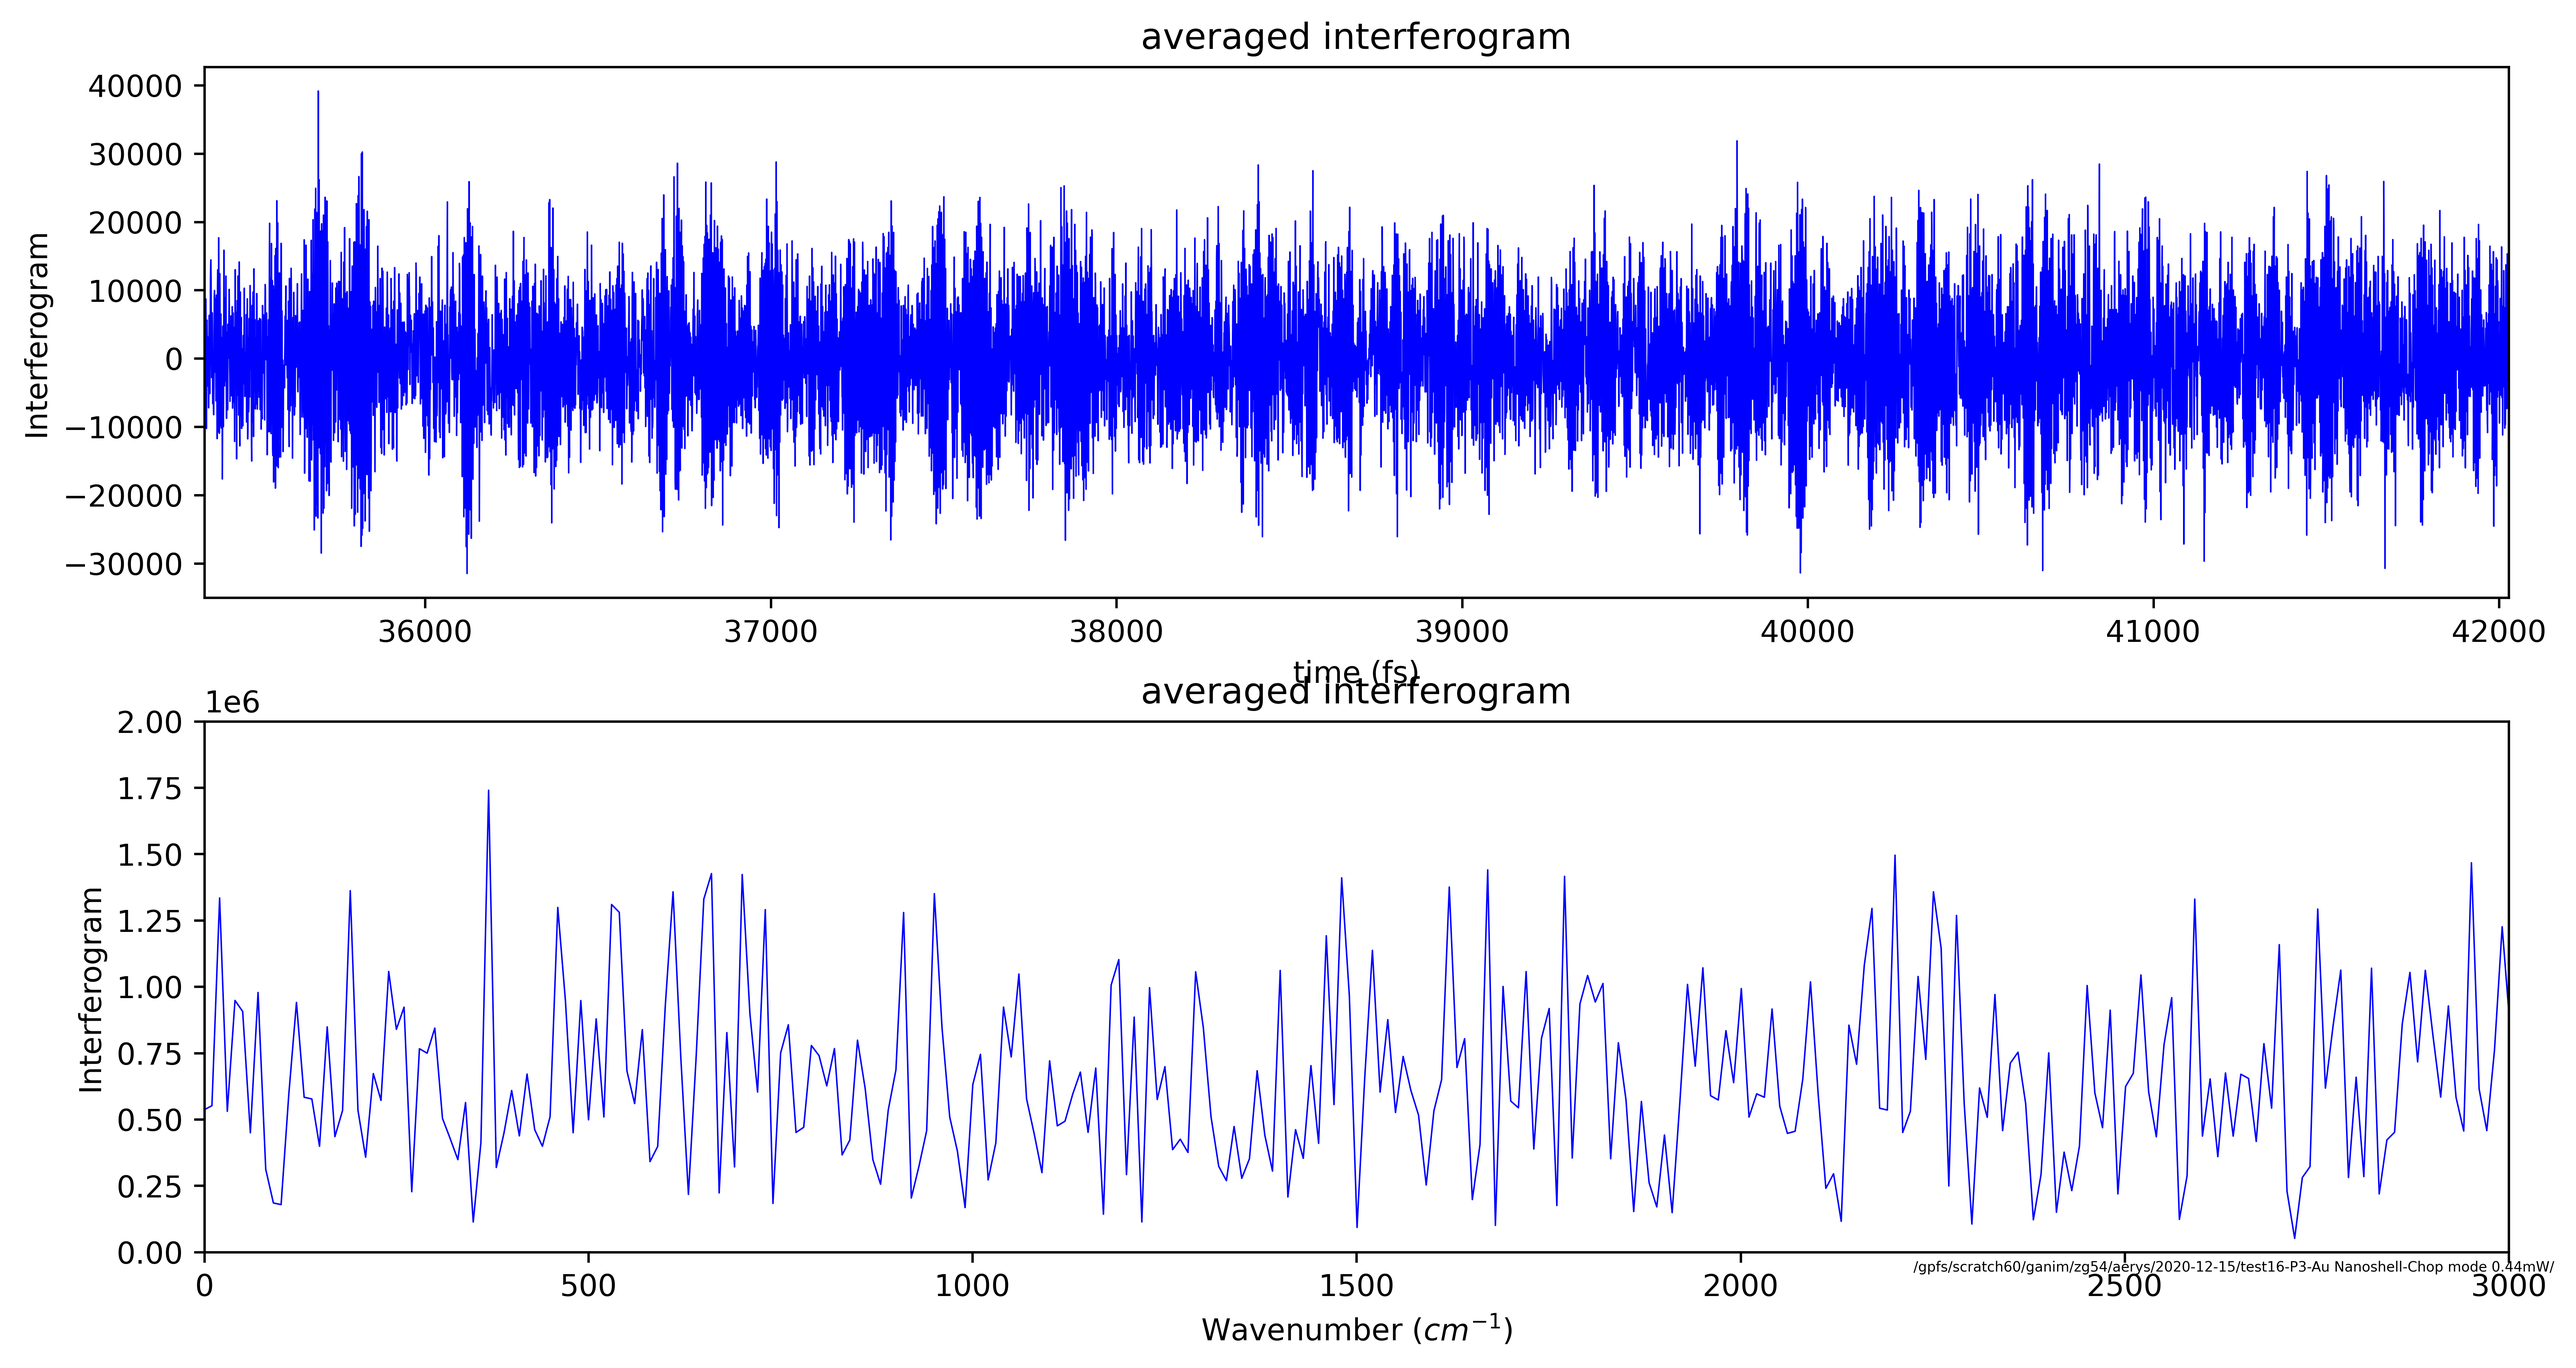
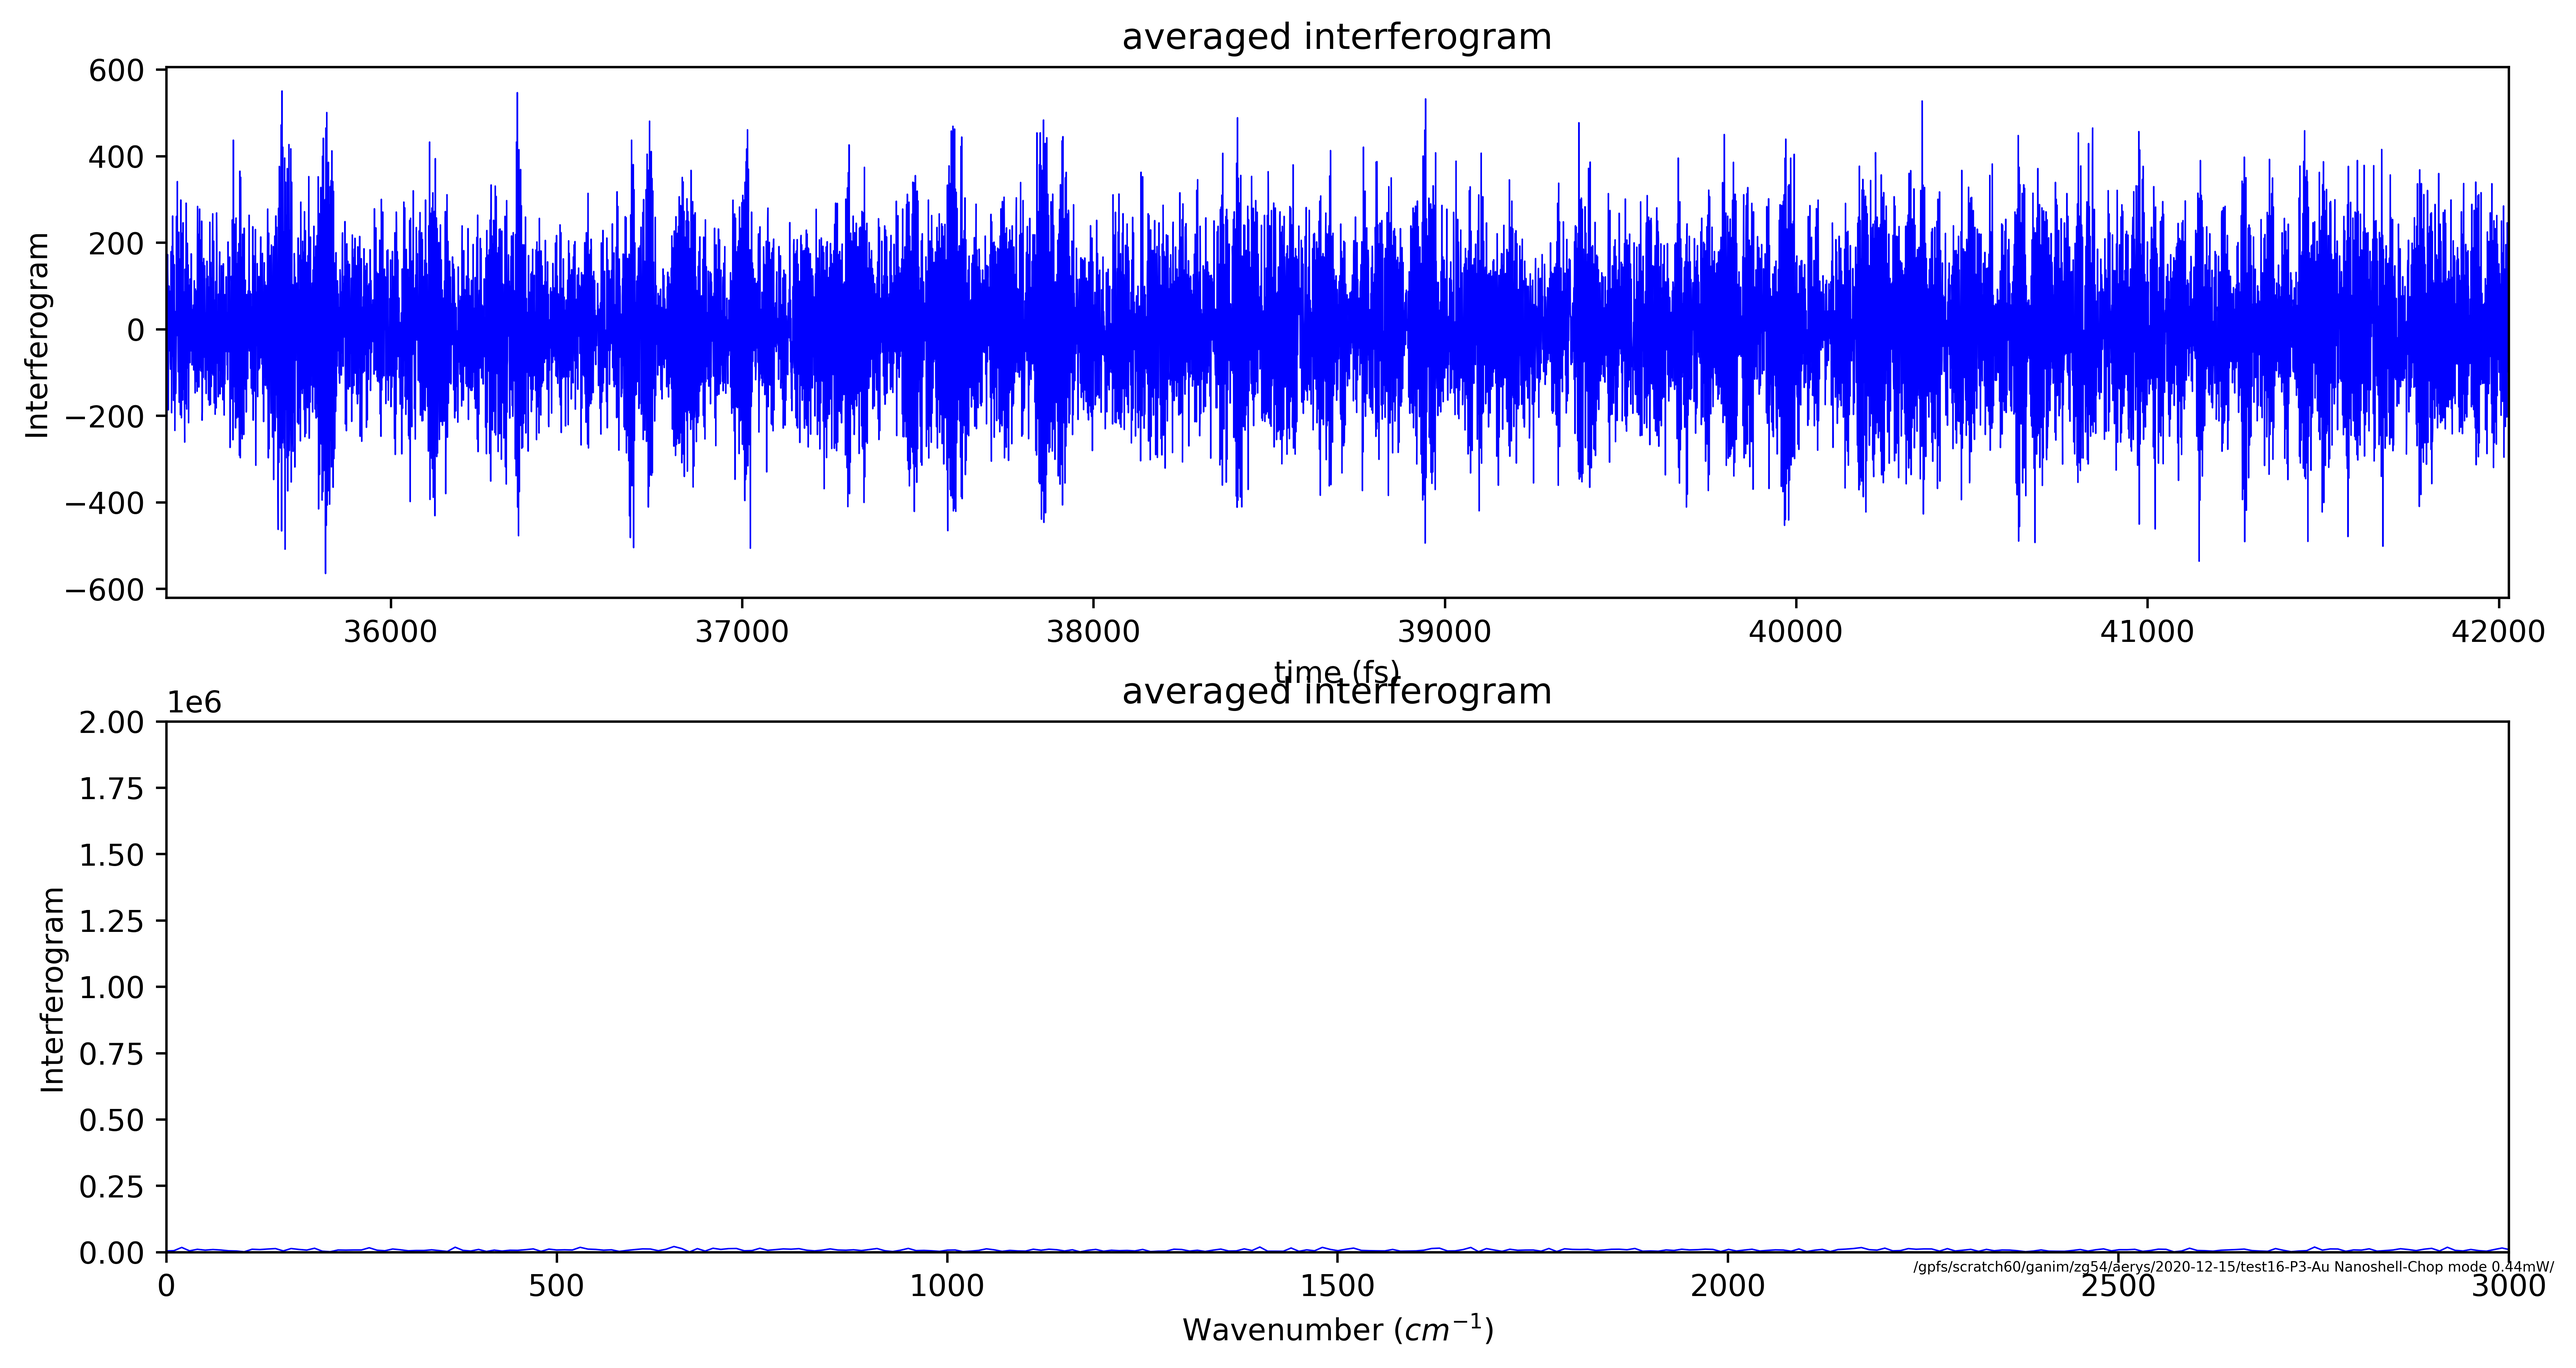
data run

diff --git a/interf_plot.py b/interf_plot.py
@@ -50,26 +50,29 @@ def main(args):
     max_t = np.zeros((N_scans),dtype=float)
     mean_dt = np.zeros((N_scans),dtype=float)
 
-    for n in np.arange(data_dict['N_scans']):
+    for n in np.arange(N_scans):
         t_temp = data_dict['t_'+str(n+1)]
         min_t[n] = np.amin(t_temp)
         max_t[n] = np.amax(t_temp)
         mean_dt[n] = np.mean(np.diff(t_temp))
-    
     dt_global = np.mean(mean_dt)/2.0
     t_global = np.arange(np.amax(min_t), np.amin(max_t), dt_global)
+
     mct_mean = np.zeros_like(t_global)
-    
-    for n in np.arange(data_dict['N_scans']):
+    mct_all = np.zeros((N_scans, len(t_global)))
+    for n in np.arange(N_scans):
         t_temp = data_dict['t_'+str(n+1)]
         mct_temp = data_dict['mct_'+str(n+1)]
         mct_interp = np.interp(t_global, t_temp, mct_temp)
         data_dict['mct_'+str(n+1)+'interp'] = mct_interp
+        mct_all[n,:] = mct_interp
         mct_mean = mct_mean + mct_interp
 
-        min_t[n] = np.amin(t_temp)
-        max_t[n] = np.amax(t_temp)
-        mean_dt[n] = np.mean(np.diff(t_temp))
+    mct_median=np.zeros_like(mct_mean)
+    for n in np.arange(len(t_global)):
+        mct_median[n] = np.median(mct_all[:,n])
+    mct_mean = mct_median
+    
 
     ##Initlize Plot
     fig = plt.figure(dpi=600, figsize=[12, 6], num=1) #initialize figure A4 size
